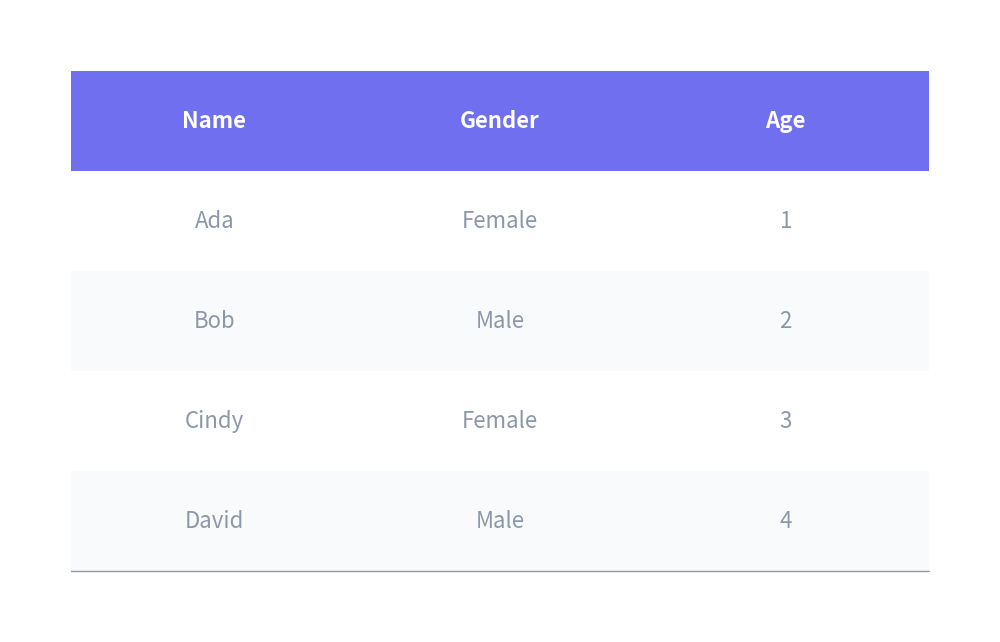
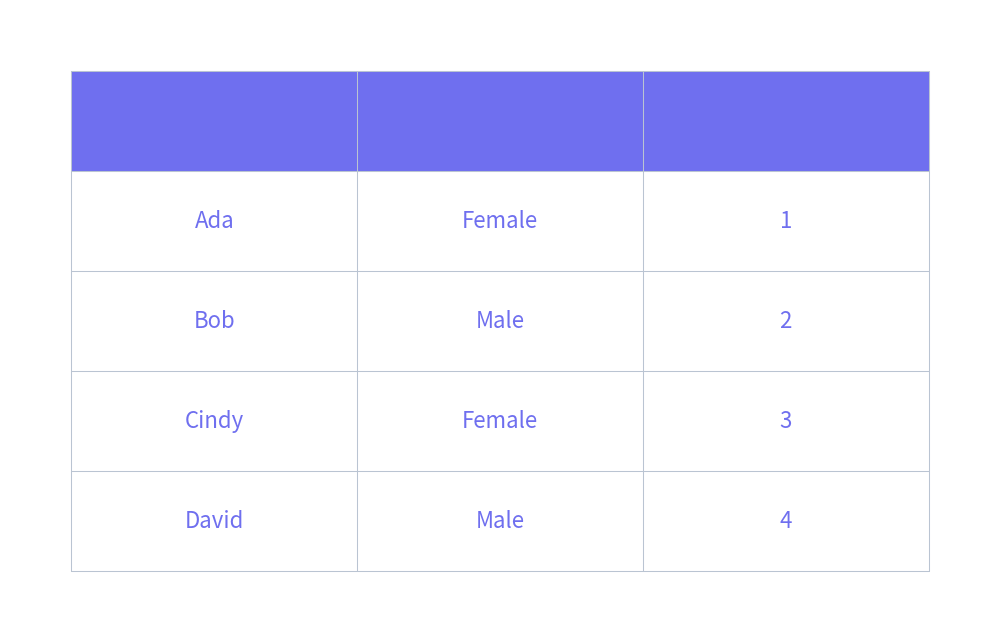
refactor: remove Table.set_predefined_style and update type annotations and documentation for style parameters

diff --git a/docs_html/smartarts/table.html b/docs_html/smartarts/table.html
@@ -404,10 +404,16 @@
 <p>Class <code>Table</code> is used for drawing tabular data with customizable headers, borders, and row banding.</p>
 <pre><code class="language-python">from drawlib.canvas import setup
 from drawlib.smartarts import Table
+from drawlib.styles import Styles
 
 setup(width=70, height=45)
 
-t1 = Table()
+t1 = Table(
+    default_text_style=Styles.Primary,
+    header_text_style=Styles.Bold,
+    header_cell_style=Styles.PrimaryLight,
+    border_style=Styles.MutedLight,
+)
 t1.draw(
     xy=(5, 40),
     width=60,
@@ -427,57 +433,51 @@ t1.draw(
 </figure>
 <p>You can draw tables with these procedures:</p>
 <ol>
-<li>Initialize a <code>Table</code> instance (optionally passing default cell, header, or border styles).</li>
-<li>Optionally customize row, column, or cell styles.</li>
+<li>Initialize a <code>Table</code> instance (passing default cell, header, or border styles).</li>
+<li>Optionally customize row, column, or cell styles via <code>set_style_*</code> methods.</li>
 <li>Draw the table with <code>draw()</code> providing coordinate, size, and matrix data.</li>
 </ol>
 <h1>API Specification</h1>
 <h2><code>Table()</code></h2>
-<p>Initialize instance. Can optionally specify default styles such as <code>default_cell_style</code>, <code>default_text_style</code>, <code>header_cell_style</code>, <code>header_text_style</code>, and <code>border_style</code>.</p>
+<p>Initialize instance. Specify styles such as <code>default_cell_style</code>, <code>default_text_style</code>, <code>header_cell_style</code>, <code>header_text_style</code>, and <code>border_style</code>. If no styles are provided and no cell styles are configured, calling <code>draw()</code> will raise a <code>ValueError</code>.</p>
 <h2><code>clear_styles()</code></h2>
 <p>Clear all styles. No args.</p>
-<h2><code>set_predefined_style()</code></h2>
-<p>Apply predefined styles.</p>
-<p>Args:</p>
-<ul>
-<li>name (Literal[&quot;default&quot;, &quot;monochrome&quot;, &quot;white&quot;]): The name of the predefined style.</li>
-</ul>
 <h2><code>set_style_cell_headers()</code></h2>
 <p>Sets the style for both column and row headers.</p>
 <p>Args:</p>
 <ul>
-<li>background_color (Union[Tuple[int, int, int], Tuple[int, int, int, float]]): The background color of the headers.</li>
-<li>textstyle (Union[str, Style]): The text style of the headers. Can be a string key for predefined styles or a Style object.</li>
+<li>background_color (Union[Tuple[int, int, int], Tuple[int, int, int, float], str, Color]): The background color of the headers.</li>
+<li>textstyle (Style): The text style of the headers.</li>
 </ul>
 <h2><code>set_style_cell_header()</code></h2>
 <p>Sets the style for the column header.</p>
 <p>Args:</p>
 <ul>
-<li>background_color (Union[Tuple[int, int, int], Tuple[int, int, int, float]]): The background color of the column header.</li>
-<li>textstyle (Union[str, Style]): The text style of the column header. Can be a string key for predefined styles or a Style object.</li>
+<li>background_color (Union[Tuple[int, int, int], Tuple[int, int, int, float], str, Color]): The background color of the column header.</li>
+<li>textstyle (Style): The text style of the column header.</li>
 </ul>
 <h2><code>set_style_cell_rowheader()</code></h2>
 <p>Sets the style for the row header.</p>
 <p>Args:</p>
 <ul>
-<li>background_color (Union[Tuple[int, int, int], Tuple[int, int, int, float]]): The background color of the row header.</li>
-<li>textstyle (Union[str, Style]): The text style of the row header. Can be a string key for predefined styles or a Style object.</li>
+<li>background_color (Union[Tuple[int, int, int], Tuple[int, int, int, float], str, Color]): The background color of the row header.</li>
+<li>textstyle (Style): The text style of the row header.</li>
 </ul>
 <h2><code>set_style_cell_evenodd()</code></h2>
 <p>Sets alternating styles for even and odd rows.</p>
 <p>Args:</p>
 <ul>
-<li>even_color (Union[Tuple[int, int, int], Tuple[int, int, int, float]]): The background color for even rows.</li>
-<li>even_textstyle (Union[str, Style]): The text style for even rows. Can be a string key for predefined styles or a Style object.</li>
-<li>odd_color (Union[Tuple[int, int, int], Tuple[int, int, int, float]]): The background color for odd rows.</li>
-<li>odd_textstyle (Union[str, Style]): The text style for odd rows. Can be a string key for predefined styles or a Style object.</li>
+<li>even_color (Union[Tuple[int, int, int], Tuple[int, int, int, float], str, Color]): The background color for even rows.</li>
+<li>even_textstyle (Style): The text style for even rows.</li>
+<li>odd_color (Union[Tuple[int, int, int], Tuple[int, int, int, float], str, Color]): The background color for odd rows.</li>
+<li>odd_textstyle (Style): The text style for odd rows.</li>
 </ul>
 <h2><code>set_style_cell()</code></h2>
 <p>Sets the style for specific cells.</p>
 <p>Args:</p>
 <ul>
-<li>background_color (Union[Tuple[int, int, int], Tuple[int, int, int, float]]): The background color of the cells.</li>
-<li>textstyle (Union[str, Style]): The text style of the cells. Can be a string key for predefined styles or a Style object.</li>
+<li>background_color (Union[Tuple[int, int, int], Tuple[int, int, int, float], str, Color]): The background color of the cells.</li>
+<li>textstyle (Style): The text style of the cells.</li>
 <li>rows (Optional[List[int]]): A list of row indices to apply the style to. If None, applies to all rows.</li>
 <li>columns (Optional[List[int]]): A list of column indices to apply the style to. If None, applies to all columns.</li>
 </ul>
@@ -485,14 +485,14 @@ t1.draw(
 <p>Sets the style for table borders.</p>
 <p>Args:</p>
 <ul>
-<li>top (Union[str, Style, None]): Style for the top border. Can be a string key for predefined styles or a Style object.</li>
-<li>top2 (Union[str, Style, None]): Style for the secondary top border. Can be a string key for predefined styles or a Style object.</li>
-<li>bottom (Union[str, Style, None]): Style for the bottom border. Can be a string key for predefined styles or a Style object.</li>
-<li>left (Union[str, Style, None]): Style for the left border. Can be a string key for predefined styles or a Style object.</li>
-<li>left2 (Union[str, Style, None]): Style for the secondary left border. Can be a string key for predefined styles or a Style object.</li>
-<li>right (Union[str, Style, None]): Style for the right border. Can be a string key for predefined styles or a Style object.</li>
-<li>between_columns (Union[str, Style, None]): Style for borders between columns. Can be a string key for predefined styles or a Style object.</li>
-<li>between_rows (Union[str, Style, None]): Style for borders between rows. Can be a string key for predefined styles or a Style object.</li>
+<li>top (Optional[Style]): Style for the top border.</li>
+<li>top2 (Optional[Style]): Style for the secondary top border.</li>
+<li>bottom (Optional[Style]): Style for the bottom border.</li>
+<li>left (Optional[Style]): Style for the left border.</li>
+<li>left2 (Optional[Style]): Style for the secondary left border.</li>
+<li>right (Optional[Style]): Style for the right border.</li>
+<li>between_columns (Optional[Style]): Style for borders between columns.</li>
+<li>between_rows (Optional[Style]): Style for borders between rows.</li>
 </ul>
 <h2><code>draw()</code></h2>
 <p>Draws the table with equal-sized cells.</p>

diff --git a/docs/smartarts/table.md b/docs/smartarts/table.md
@@ -8,10 +8,16 @@ Class `Table` is used for drawing tabular data with customizable headers, border
 ```python
 from drawlib.canvas import setup
 from drawlib.smartarts import Table
+from drawlib.styles import Styles
 
 setup(width=70, height=45)
 
-t1 = Table()
+t1 = Table(
+    default_text_style=Styles.Primary,
+    header_text_style=Styles.Bold,
+    header_cell_style=Styles.PrimaryLight,
+    border_style=Styles.MutedLight,
+)
 t1.draw(
     xy=(5, 40),
     width=60,
@@ -35,8 +41,8 @@ t1.draw(
 
 You can draw tables with these procedures:
 
-1. Initialize a `Table` instance (optionally passing default cell, header, or border styles).
-2. Optionally customize row, column, or cell styles.
+1. Initialize a `Table` instance (passing default cell, header, or border styles).
+2. Optionally customize row, column, or cell styles via `set_style_*` methods.
 3. Draw the table with `draw()` providing coordinate, size, and matrix data.
 
 
@@ -47,7 +53,7 @@ You can draw tables with these procedures:
 ## ``Table()``
 
 
-Initialize instance. Can optionally specify default styles such as `default_cell_style`, `default_text_style`, `header_cell_style`, `header_text_style`, and `border_style`.
+Initialize instance. Specify styles such as `default_cell_style`, `default_text_style`, `header_cell_style`, `header_text_style`, and `border_style`. If no styles are provided and no cell styles are configured, calling `draw()` will raise a `ValueError`.
 
 
 
@@ -55,16 +61,6 @@ Initialize instance. Can optionally specify default styles such as `default_cell
 
 
 Clear all styles. No args.
-
-
-## ``set_predefined_style()``
-
-
-Apply predefined styles.
-
-Args:
-
-- name (Literal["default", "monochrome", "white"]): The name of the predefined style.
 
 
 
@@ -75,8 +71,8 @@ Sets the style for both column and row headers.
 
 Args:
 
-- background_color (Union[Tuple[int, int, int], Tuple[int, int, int, float]]): The background color of the headers.
-- textstyle (Union[str, Style]): The text style of the headers. Can be a string key for predefined styles or a Style object.
+- background_color (Union[Tuple[int, int, int], Tuple[int, int, int, float], str, Color]): The background color of the headers.
+- textstyle (Style): The text style of the headers.
 
 
 ## ``set_style_cell_header()``
@@ -86,8 +82,8 @@ Sets the style for the column header.
 
 Args:
 
-- background_color (Union[Tuple[int, int, int], Tuple[int, int, int, float]]): The background color of the column header.
-- textstyle (Union[str, Style]): The text style of the column header. Can be a string key for predefined styles or a Style object.
+- background_color (Union[Tuple[int, int, int], Tuple[int, int, int, float], str, Color]): The background color of the column header.
+- textstyle (Style): The text style of the column header.
 
 
 ## ``set_style_cell_rowheader()``
@@ -97,8 +93,8 @@ Sets the style for the row header.
 
 Args:
 
-- background_color (Union[Tuple[int, int, int], Tuple[int, int, int, float]]): The background color of the row header.
-- textstyle (Union[str, Style]): The text style of the row header. Can be a string key for predefined styles or a Style object.
+- background_color (Union[Tuple[int, int, int], Tuple[int, int, int, float], str, Color]): The background color of the row header.
+- textstyle (Style): The text style of the row header.
 
 
 ## ``set_style_cell_evenodd()``
@@ -108,10 +104,10 @@ Sets alternating styles for even and odd rows.
 
 Args:
 
-- even_color (Union[Tuple[int, int, int], Tuple[int, int, int, float]]): The background color for even rows.
-- even_textstyle (Union[str, Style]): The text style for even rows. Can be a string key for predefined styles or a Style object.
-- odd_color (Union[Tuple[int, int, int], Tuple[int, int, int, float]]): The background color for odd rows.
-- odd_textstyle (Union[str, Style]): The text style for odd rows. Can be a string key for predefined styles or a Style object.
+- even_color (Union[Tuple[int, int, int], Tuple[int, int, int, float], str, Color]): The background color for even rows.
+- even_textstyle (Style): The text style for even rows.
+- odd_color (Union[Tuple[int, int, int], Tuple[int, int, int, float], str, Color]): The background color for odd rows.
+- odd_textstyle (Style): The text style for odd rows.
 
 
 
@@ -122,8 +118,8 @@ Sets the style for specific cells.
 
 Args:
 
-- background_color (Union[Tuple[int, int, int], Tuple[int, int, int, float]]): The background color of the cells.
-- textstyle (Union[str, Style]): The text style of the cells. Can be a string key for predefined styles or a Style object.
+- background_color (Union[Tuple[int, int, int], Tuple[int, int, int, float], str, Color]): The background color of the cells.
+- textstyle (Style): The text style of the cells.
 - rows (Optional[List[int]]): A list of row indices to apply the style to. If None, applies to all rows.
 - columns (Optional[List[int]]): A list of column indices to apply the style to. If None, applies to all columns.
 
@@ -136,14 +132,14 @@ Sets the style for table borders.
 
 Args:
 
-- top (Union[str, Style, None]): Style for the top border. Can be a string key for predefined styles or a Style object.
-- top2 (Union[str, Style, None]): Style for the secondary top border. Can be a string key for predefined styles or a Style object.
-- bottom (Union[str, Style, None]): Style for the bottom border. Can be a string key for predefined styles or a Style object.
-- left (Union[str, Style, None]): Style for the left border. Can be a string key for predefined styles or a Style object.
-- left2 (Union[str, Style, None]): Style for the secondary left border. Can be a string key for predefined styles or a Style object.
-- right (Union[str, Style, None]): Style for the right border. Can be a string key for predefined styles or a Style object.
-- between_columns (Union[str, Style, None]): Style for borders between columns. Can be a string key for predefined styles or a Style object.
-- between_rows (Union[str, Style, None]): Style for borders between rows. Can be a string key for predefined styles or a Style object.
+- top (Optional[Style]): Style for the top border.
+- top2 (Optional[Style]): Style for the secondary top border.
+- bottom (Optional[Style]): Style for the bottom border.
+- left (Optional[Style]): Style for the left border.
+- left2 (Optional[Style]): Style for the secondary left border.
+- right (Optional[Style]): Style for the right border.
+- between_columns (Optional[Style]): Style for borders between columns.
+- between_rows (Optional[Style]): Style for borders between rows.
 
 
 ## ``draw()``
